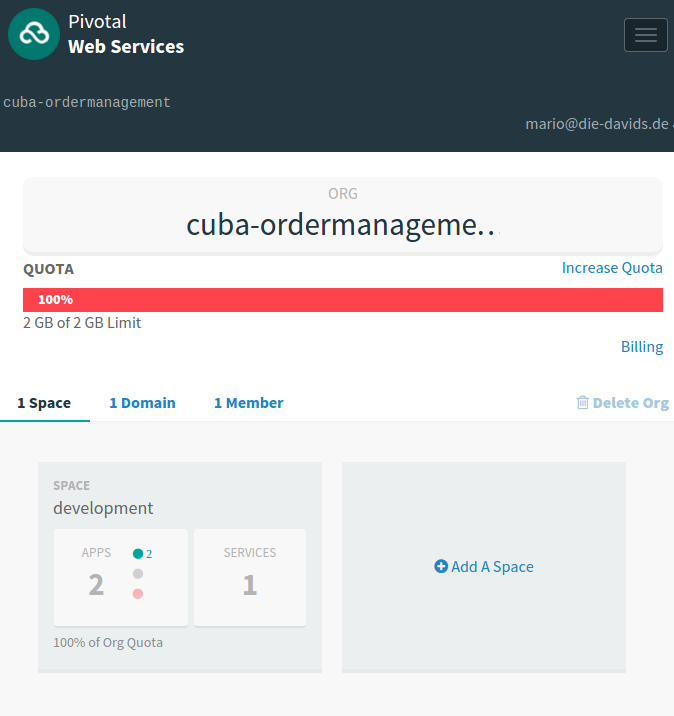
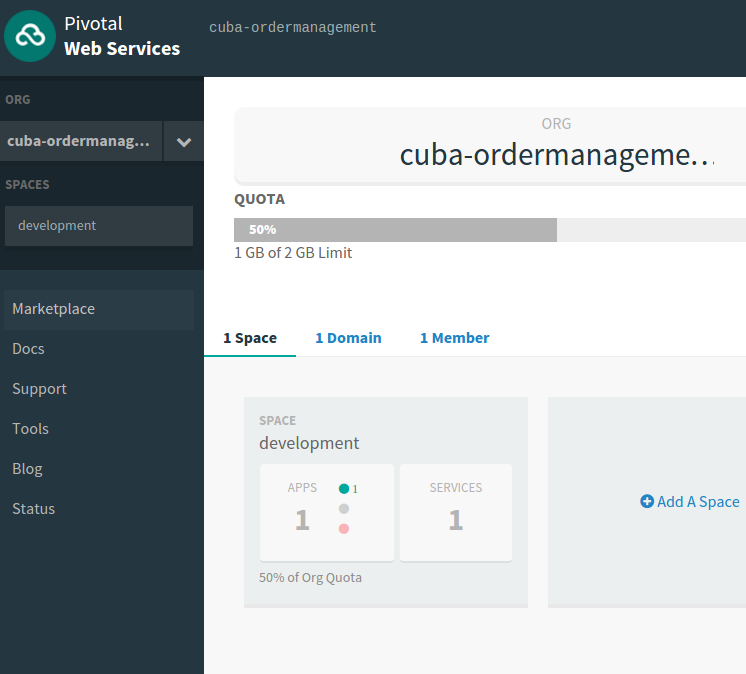
draft cf

diff --git a/_drafts/cuba-on-cloud-foundry.md b/_drafts/cuba-on-cloud-foundry.md
@@ -86,7 +86,7 @@ So let's get started with Cloud Foundry. To do so, i have created a free acc. at
 After creating the acc. and installing their [CLI](http://docs.run.pivotal.io/cf-cli/) you are ready to login via the command line:
 
 {% highlight bash %}
-cf login -a https://api.run.pivotal.io
+$ cf login -a https://api.run.pivotal.io
 {% endhighlight %}
 
 After doing so your command line is ready to go to push your application. But first, let's have a look at the web UI which allows you to view the running instances. 
@@ -98,12 +98,8 @@ After a successful [login](https://login.run.pivotal.io/login) you will see a sc
 
 First, i created an organisation called "cuba-ordermanagement". This oragnisation contains one *space*. A *space* is an aggregation of services and apps that are scoped via project or an environment. I created a space called "development", which should describe the phase of my imaginary continous delivery pipeline pipeline. 
 
-As you see on the right, i already started my apps and one service, so let's get started with deploying an app on CF.
+As you see on the right, i already started my cuba app and one service, so let's get started with deploying an app on CF.
 
-
-## Make CUBA Cloud-ready &trade;
-
-There are a few things that have to be changed from the traditional deployment model. We'll go through it step by step so you should be able adjust your app right as we go.
 
 ### Create a postgres database in Cloud Foundry
 
@@ -128,7 +124,13 @@ $ cf create-service elephantsql turtle cuba-ordermanagement-postgres
 Now we have a running postgres db installation. Next thing is that we have to configure our application to use this datastore.
 
 
-### Springs Cloud Connector for DataSource creation
+
+## Make CUBA Cloud-ready &trade;
+
+There are a few things that have to be changed from the traditional deployment model. We'll go through it step by step so you should be able adjust your app right as we go.
+
+
+### 1. Springs Cloud Connector for DataSource creation
 
 Within the spring ecosystem there are different packages that handle integration with cloud systems in general and PaaS like Cloud Foundry in particular. In the <code>build.gradle</code>, the <code>coreModul</code> needs the following two additional dependencies:
 
@@ -182,9 +184,51 @@ class CloudFoundryDataSourceFactory {
 
 {% endhighlight %}
 
-With this little glue code inplace, the application is ready to connect to the database via a service name instead of DNS names through the cloud platform.
+With this little glue code inplace (i hope you don't mind i used groovy here), the application is ready to connect to the database via a service name instead of DNS names through the cloud platform.
 
-### Create deployment information for Cloud Foundry
+The only thing they we have to tell the application is, that we actually want to use *postgres* as the dbms of our choice. When we do this we can additionally put the other required configuration inplace.
+
+### 2. Set up the *.properties file of the CUBA app
+
+To tell CUBA that it should use Postgres as the dbms we have to change the <code><a href="https://github.com/mariodavid/cuba-ordermanagement/blob/cloud-foundry/modules/core/src/app.properties">app.properties</a></code> in the core module the following way:
+
+{% highlight properties %}
+
+cuba.dbmsType = postgres
+cuba.automaticDatabaseUpdate = true
+
+{% endhighlight %}
+
+Additionally we have to change the <code>app.home</code> attribute in <code><a href="https://github.com/mariodavid/cuba-ordermanagement/blob/cloud-foundry/modules/core/src/app.properties">app.properties</a></code> in the core module and the <code><a href="https://github.com/mariodavid/cuba-ordermanagement/blob/cloud-foundry/modules/web/src/web-app.properties">web-app.properties</a></code> file in the web module to <code>..</code>:
+
+
+{% highlight properties %}
+
+app.home = ..
+
+{% endhighlight %}
+
+### 3. Configure CUBA to be delivered as a single war
+
+To make deployment of the app a little easier, we'll combine the core and the web module as a single war file. This has some benefits but also some drawbacks regarding to scaling and so on. Due to this it's up to you if you want to follow this path.
+
+If you read the docs about the [single war approach](https://docs.cuba-platform.com/cuba/6.0/manual/en/html-single/manual.html#build.gradle_buildWar) you'll see, that we have to create another web.xml and use it during war building.
+
+Just copy & paste the XML file from the [docs](https://docs.cuba-platform.com/cuba/6.0/manual/en/html-single/manual.html#build.gradle_buildWar) and put it in the <code>web</code> module to <code>web/WEB-INF/single-war-web.xml</code>. You have to adjust the Context parameter <code>Web Client Application class</code> to fit to your application class. The created file for cuba-ordermanagement you'll find [here](https://github.com/mariodavid/cuba-ordermanagement/blob/cloud-foundry/modules/web/web/WEB-INF/single-war-web.xml).
+
+After doing so, the last thing you have to do is to create a gradle task in the <code><a href="https://github.com/mariodavid/cuba-ordermanagement/blob/cloud-foundry/build.gradle">build.gradle</a></code> file. In this task you reference the newly generated <code>single-war-web.xml</code> as the web.xml file like this:
+
+
+{% highlight groovy %}
+
+task buildWar(type: CubaWarBuilding) {
+    appHome = '..'
+    webXml = "${webModule.projectDir}/web/WEB-INF/single-war-web.xml"
+}
+
+{% endhighlight %}
+
+### 4. Create deployment information for Cloud Foundry
 
 Since we can't really get down to the underlying infrastructure of the app, we are not able to change the way the tomcat (or whatever servlet container is underneath your app in this case) works. But certain metadata has to be given to the PaaS in order to run our application properly, e.g. the java version, the amount of memory required, external services (like datastores) and so on.
 
@@ -207,12 +251,26 @@ env:
 {% endhighlight %}
 
 
+**That's it**. Ok, it took a little bit longer than i would like it to be. This is due to the fact that we have done different things here. Not all of them have directly to do with make it cloud ready. Anyway - now we are ready to take the app and deploy it to Cloud Foundry.
+
+## Pushing it up
+
+First we need to create the war file that we want to deploy:
+
+{% highlight bash %}
+$ ./gradlew buildWar
+{% endhighlight %}
+
+Next we do the actual deployment via the command cf push and point it our manifest file:
+
+{% highlight bash %}
+$ cf push -f manifest.yml
+{% endhighlight %}
+
+<img style="float:right; padding: 10px; width: 50%" src="{{site.url}}/images/cloud-foundry/cf-cuba-login.png">
 
 
+Then the cli will care about uploading the artefact, creating a "server", connecting it to the service and start up the tomcat installation.
 
-
-
-
-
-
+When everything worked out fine, you can access your application at [http://cuba-ordermanagement.cfapps.io/](http://cuba-ordermanagement.cfapps.io/) (or whatever Route is defined for the application. You can look it up via the web ui).
 
